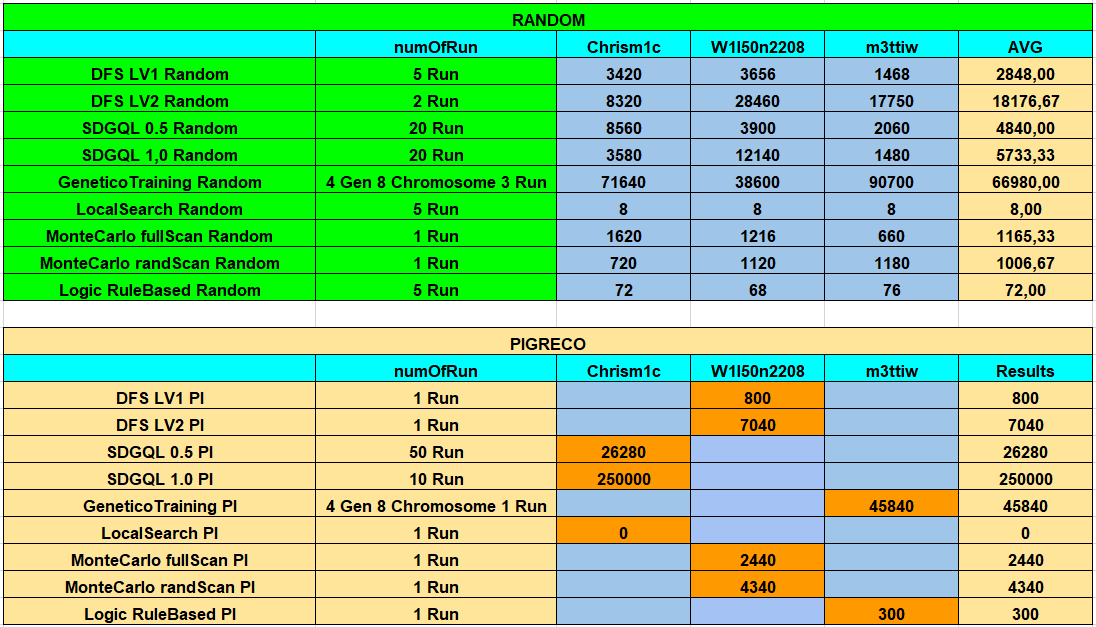
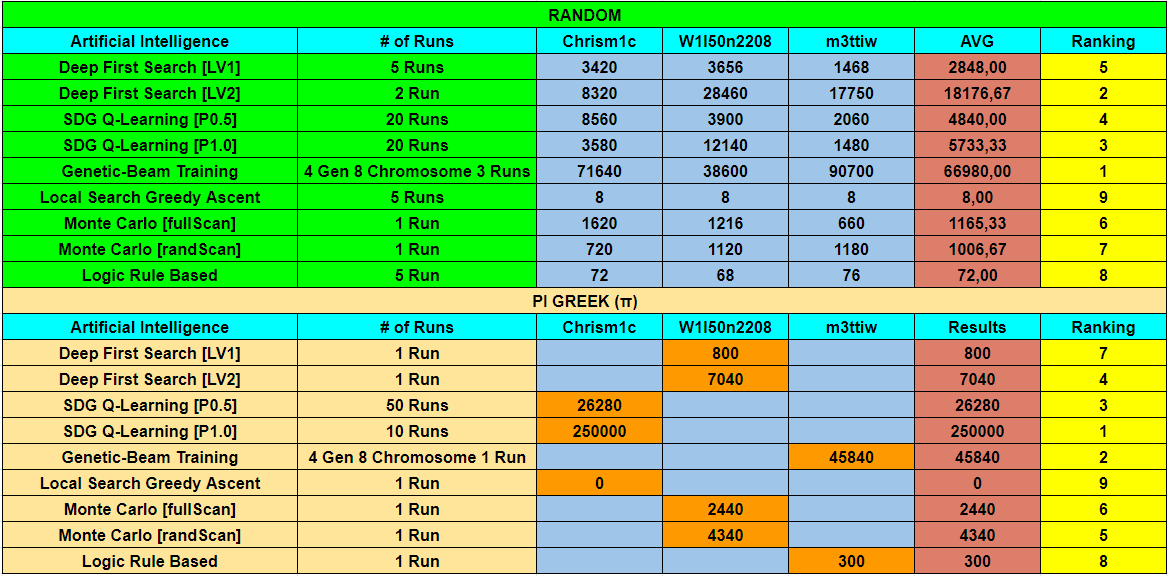
Results on README.md

diff --git a/README.md b/README.md
@@ -8,7 +8,7 @@ _____________________![](doc/TetrAIsGif.gif)
 2. [**System Dependencies**](#requirements-and-dependencies)
 3. [**Quick Start**](#quick-start)
 4. [**Artificial Intelligences Explained**](#artificial-intelligences-explained)
-5. [**Evaluation and Conclusions**](#evaluation-and-conclusions)
+5. [**Evaluation and Results**](#evaluation-and-results)
 6. [**Credits**](#credits)
 
 <ul>
@@ -164,11 +164,17 @@ ___
 
 <li>
 
-## Evaluation and Conclusions
+## Evaluation and Results
+
+#### TetrAIs group results
+![](doc/AIsResults.png)
+
+
+
+## Conclusions
 
 </li>
 
-![](doc/AIsResults.png)
 
 <li>
 	
